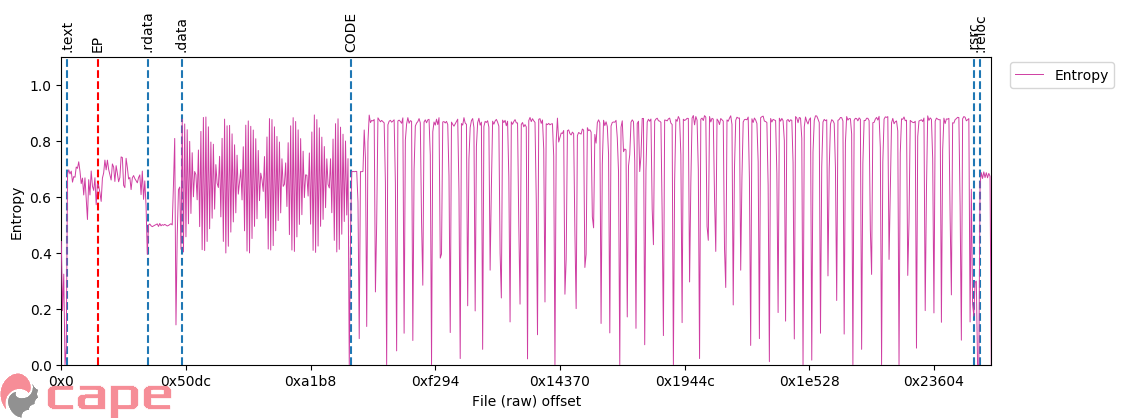
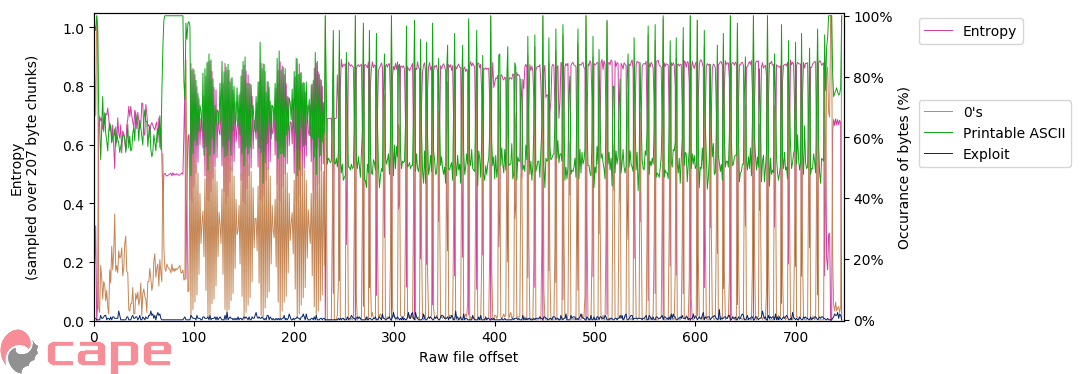
Temp storage

diff --git a/exeGraph_mpl.py b/exeGraph_mpl.py
@@ -187,7 +187,6 @@ def file_ent(binname, frmt='png', figname=None, figsize=(12,4), figdpi=100, chun
         clean_binname = ''.join([c for c in binname if re.match(r'[\w\_\-\.]', c)])
         figname = 'file_ent-{}.{}'.format(clean_binname, frmt)
 
-
     fh = open(binname, 'rb')
 
     # # Calculate the overall chunksize 
@@ -239,9 +238,9 @@ def file_ent(binname, frmt='png', figname=None, figsize=(12,4), figdpi=100, chun
     host.set_ylim([0, 1.05])
     host.plot(shannon_samples, label=label, c=c, zorder=zorder, linewidth=0.7)
     host.set_ylabel('Entropy\n(sampled over {} byte chunks)\n'.format(chunksize))
+    host.set_xlabel('Raw file offset')
 
-    # # Set the xaxis to non-visible so we can work with _real_ values
-    plt.gca().get_xaxis().set_visible(False)
+    host.yaxis.set_major_formatter(ticker.FuncFormatter(lambda x, pos: ('%i%%') % (x)))
 
     # # Plot individual byte percentages
     if len(ibytes) > 0:
@@ -256,50 +255,52 @@ def file_ent(binname, frmt='png', figname=None, figsize=(12,4), figdpi=100, chun
             axBytePc.plot(percentages, label=label, c=c, zorder=zorder, linewidth=0.7)
 
 
-    # # Filetype specific additions
-    try:
-        exebin = lief.parse(filepath=filename)
-    except Exception as e:
-        exebin = None
-
-    if type(exebin) == lief.PE.Binary:
-
-        # # Create the additional axes - this should probably use secondary_axes (https://github.com/matplotlib/matplotlib/pull/11589)
-
-        # # Show the raw file offset (all binary files)
-        axRawOffset = host.twiny()
-        axRawOffset.set_xlim([0, fs])
-        axRawOffset.set_xticklabels(axRawOffset.get_xticklabels(), rotation=-10, size=10, ha='left', va='top')
-        axRawOffset.xaxis.set_major_formatter(ticker.FuncFormatter(lambda x, pos: ('0x%x') % (int(x))))
-        axRawOffset.set_xlabel('Raw file offset')
-        axRawOffset.xaxis.set_label_position('bottom')
-
-        # # Show the virtual offset (for PEs) - used later
-        axVirtOffset = axRawOffset.twiny()
-        axVirtOffset.set_xlabel('Virtual offset')
-        axVirtOffset.xaxis.set_label_position('top')
-
-        axVirtOffset.set_xlim([exebin.optional_header.imagebase, exebin.optional_header.imagebase + exebin.optional_header.sizeof_image])
-        axVirtOffset.set_xticklabels(axVirtOffset.get_xticklabels(), rotation=10, size=10, ha='left', va='bottom')
-        axVirtOffset.xaxis.set_major_formatter(ticker.FuncFormatter(lambda x, pos: ('0x%x') % (int(x))))
 
 
-        # # Entrypoint (EP) pointer and vline
-        v_ep = exebin.entrypoint
-        axVirtOffset.axvline(x=v_ep, linestyle='--', c='r')
-        axVirtOffset.text(x=v_ep, y=1.12, s='EP', rotation=90, verticalalignment='bottom', horizontalalignment='center')
+    # # # Filetype specific additions
+    # try:
+    #     exebin = lief.parse(filepath=filename)
+    # except Exception as e:
+    #     exebin = None
 
-        # # Section vlines
-        for section in exebin.sections:
+    # if type(exebin) == lief.PE.Binary:
 
-            section_virtual_offset = section.virtual_address + exebin.optional_header.imagebase
-            print(section.name, fs, 'virtual: '+str(hex(section_virtual_offset)), 'raw: '+str(hex(section.offset)) )
+    #     # # Create the additional axes - this should probably use secondary_axes (https://github.com/matplotlib/matplotlib/pull/11589)
 
-            axVirtOffset.axvline(x=section_virtual_offset, linestyle='--')
-            axVirtOffset.text(x=section_virtual_offset, y=1.12, s=section.name, rotation=90, verticalalignment='bottom', horizontalalignment='center')
+    #     # # Show the raw file offset (all binary files)
+    #     axRawOffset = host.twiny()
+    #     axRawOffset.set_xlim([0, fs])
+    #     axRawOffset.set_xticklabels(axRawOffset.get_xticklabels(), rotation=-10, size=10, ha='left', va='top')
+    #     axRawOffset.xaxis.set_major_formatter(ticker.FuncFormatter(lambda x, pos: ('0x%x') % (int(x))))
+    #     axRawOffset.set_xlabel('Raw file offset')
+    #     axRawOffset.xaxis.set_label_position('bottom')
 
-    else:
-        pass # NOT PE, but parse-able by lief
+    #     # # Show the virtual offset (for PEs) - used later
+    #     axVirtOffset = axRawOffset.twiny()
+    #     axVirtOffset.set_xlabel('Virtual offset')
+    #     axVirtOffset.xaxis.set_label_position('top')
+
+    #     axVirtOffset.set_xlim([exebin.optional_header.imagebase, exebin.optional_header.imagebase + exebin.optional_header.sizeof_image])
+    #     axVirtOffset.set_xticklabels(axVirtOffset.get_xticklabels(), rotation=10, size=10, ha='left', va='bottom')
+    #     axVirtOffset.xaxis.set_major_formatter(ticker.FuncFormatter(lambda x, pos: ('0x%x') % (int(x))))
+
+
+    #     # # Entrypoint (EP) pointer and vline
+    #     v_ep = exebin.entrypoint
+    #     axVirtOffset.axvline(x=v_ep, linestyle='--', c='r')
+    #     axVirtOffset.text(x=v_ep, y=1.12, s='EP', rotation=90, verticalalignment='bottom', horizontalalignment='center')
+
+    #     # # Section vlines
+    #     for section in exebin.sections:
+
+    #         section_virtual_offset = section.virtual_address + exebin.optional_header.imagebase
+    #         print(section.name, fs, 'virtual: '+str(hex(section_virtual_offset)), 'raw: '+str(hex(section.offset)) )
+
+    #         axVirtOffset.axvline(x=section_virtual_offset, linestyle='--')
+    #         axVirtOffset.text(x=section_virtual_offset, y=1.12, s=section.name, rotation=90, verticalalignment='bottom', horizontalalignment='center')
+
+    # else:
+    #     pass # NOT PE, but parse-able by lief
 
 
 
